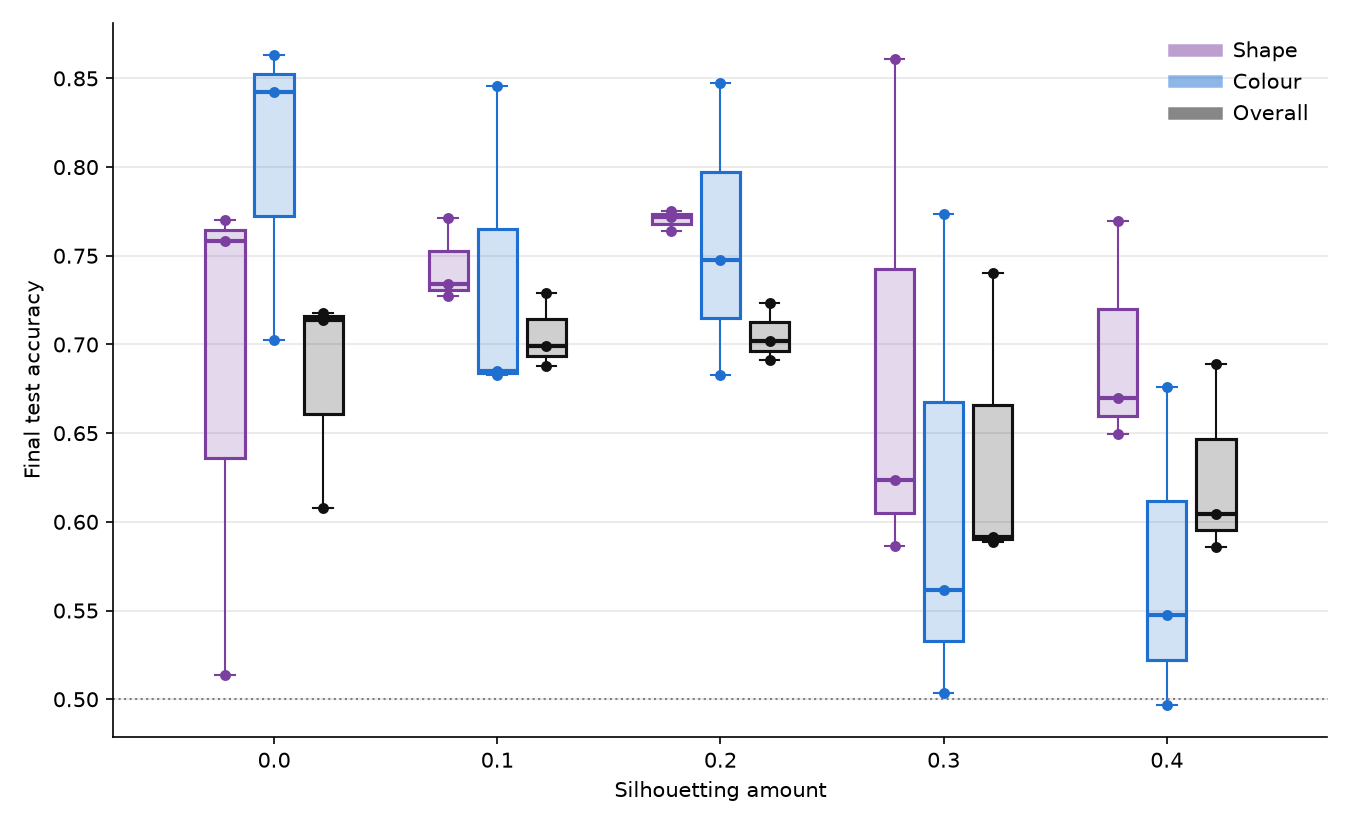
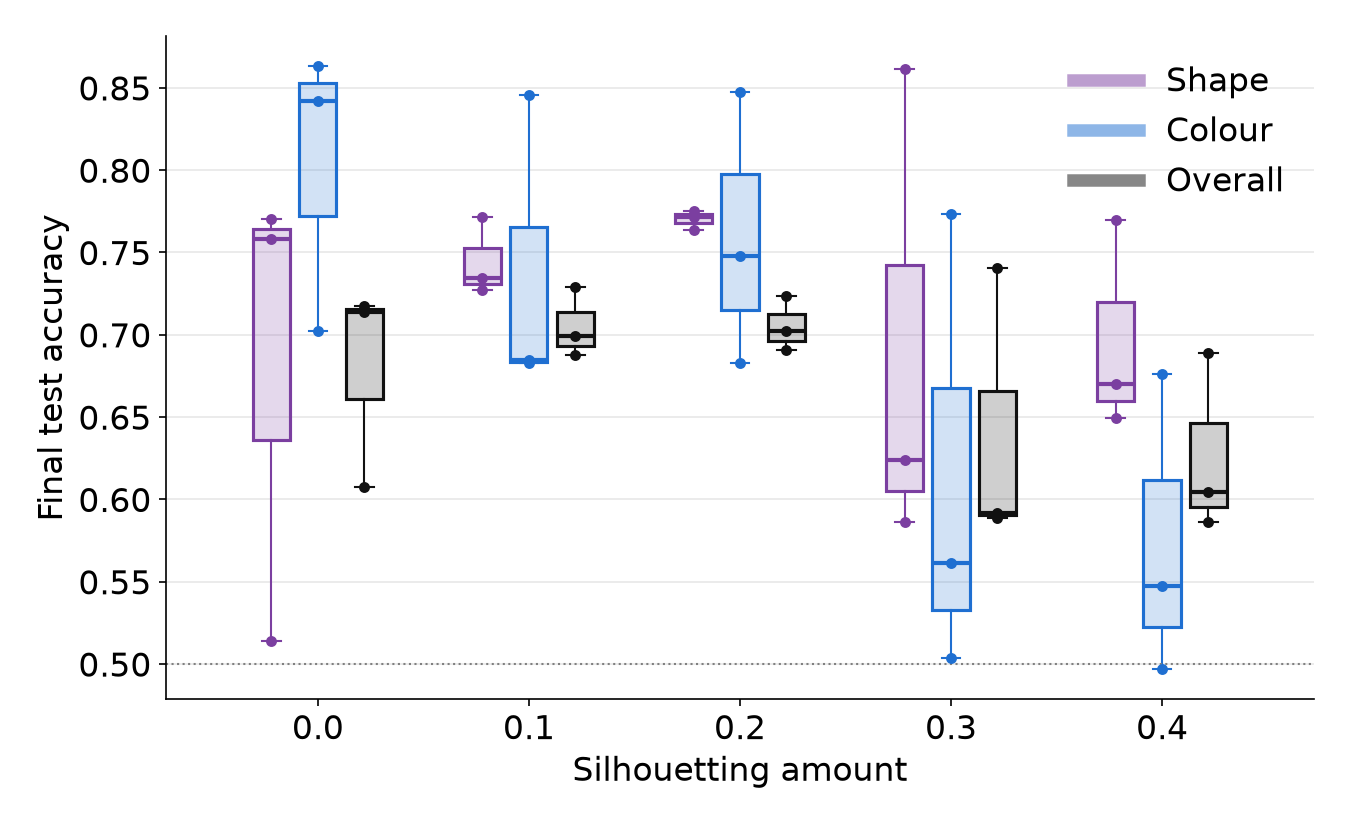
Enlarge silhouetting sweep boxplot fonts and fix legend position

diff --git a/figures/silhouetting_sweep_boxplot.py b/figures/silhouetting_sweep_boxplot.py
@@ -30,6 +30,7 @@ SERIES = [
     ("test_acc", "Overall", "#111111"),
 ]
 BOX_WIDTH = 0.22
+FONT_SIZE = 16
 
 
 def final_rows() -> pd.DataFrame:
@@ -42,6 +43,7 @@ def final_rows() -> pd.DataFrame:
 
 
 def main():
+    plt.rcParams["font.size"] = FONT_SIZE
     finals = final_rows()
     rates = sorted(finals.rate.unique())
 
@@ -70,7 +72,7 @@ def main():
     ax.set_ylabel("Final test accuracy")
     ax.axhline(0.5, color="grey", ls=":", lw=1)
     ax.grid(axis="y", alpha=0.3)
-    ax.legend(frameon=False)
+    ax.legend(frameon=False, loc="upper right")
     for side in ("top", "right"):
         ax.spines[side].set_visible(False)
 
